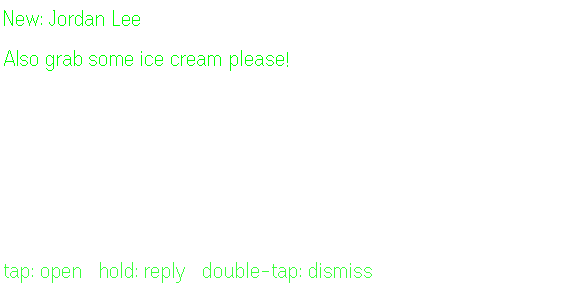
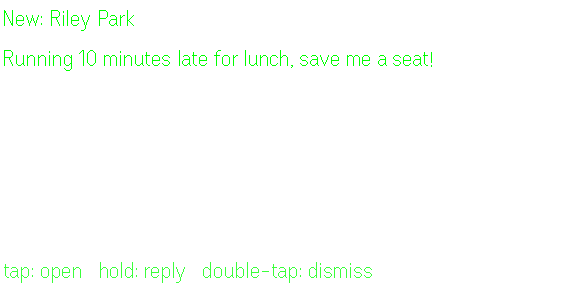
fix: demo new-message card comes from Riley Park so it shows while reading Jordan's chat (app 0.0.5)
Claude-Session: https://claude.ai/code/session_01TjzxUYBahxGsxMzbufMTCs

Changed region(s): [[0.0, 0.1562, 0.5, 0.25], [0.0938, 0.0312, 0.25, 0.0938], [0.5312, 0.1875, 0.75, 0.2188]]

diff --git a/app/src/demo.ts b/app/src/demo.ts
@@ -4,6 +4,8 @@ import type { Chat, Contact, Favorite, GatewayApi, Incoming, Message, Target, Up
 
 const MIN = 60_000;
 export const DEMO_INCOMING_DELAY_MS = 25_000;
+const DEMO_INCOMING = { chatGuid: 'demo;-;riley', name: 'Riley Park', isGroup: false, sender: 'Riley Park',
+  text: 'Running 10 minutes late for lunch, save me a seat!' } as const;
 const DEMO_TRANSCRIPT = 'On my way, see you in ten minutes';
 
 interface Thread { chat: Chat; messages: Message[] }
@@ -99,9 +101,9 @@ export function createDemoApi(now: () => number = () => Date.now()): GatewayApi 
       if (!incomingDelivered && now() - startedAt >= DEMO_INCOMING_DELAY_MS) {
         incomingDelivered = true;
         const at = now();
-        append('demo;-;jordan', { guid: 'j-new', fromMe: false, sender: 'Jordan Lee', text: 'Also grab some ice cream please!', at }, true);
-        messages.push({ chatGuid: 'demo;-;jordan', name: 'Jordan Lee', isGroup: false, sender: 'Jordan Lee',
-          text: 'Also grab some ice cream please!', at });
+        // From a chat the walkthrough doesn't open: a message for the thread you're reading refreshes it, no card.
+        append(DEMO_INCOMING.chatGuid, { guid: 'r-new', fromMe: false, sender: DEMO_INCOMING.sender, text: DEMO_INCOMING.text, at }, true);
+        messages.push({ ...DEMO_INCOMING, at });
       }
       const latest = Math.max(since, ...threads.map((th) => th.chat.lastAt));
       return { messages: messages.filter((m) => m.at > since), latest };

diff --git a/app/src/demo.test.ts b/app/src/demo.test.ts
@@ -31,7 +31,7 @@ describe('demo api', () => {
     t += DEMO_INCOMING_DELAY_MS + 1;
     const second = await api.updates(first.latest);
     expect(second.messages).toHaveLength(1);
-    expect(second.messages[0]).toMatchObject({ name: 'Jordan Lee' });
+    expect(second.messages[0]).toMatchObject({ name: 'Riley Park', chatGuid: 'demo;-;riley' });
     expect((await api.updates(second.latest)).messages).toEqual([]);
   });
 
